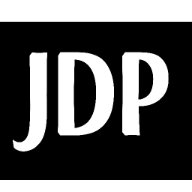
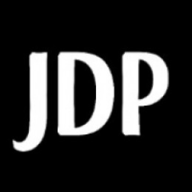
image tweaks and pageage json homepage change

diff --git a/dist/js/index.html b/dist/js/index.html
@@ -1,1 +1,1 @@
-<!DOCTYPE html><html lang="en"><head><link rel="manifest" crossorigin="use-credentials" href="%PUBLIC_URL%/site.webmanifest"><meta charset="utf-8"><meta http-equiv="Cache-control" content="public"><meta name="viewport" content="width=device-width,initial-scale=1"><meta name="theme-color" content="#FFF"><meta name="description" content="JDP Electrical Services offer a complete range of electrical installations and services throughout the Sydney Metropolitan and North Shore Region."><link async="true" rel="icon" href="%PUBLIC_URL%/favicon.ico"><link async="true" rel="apple-touch-icon" sizes="180x180" href="/apple-touch-icon.png"><link async="true" rel="icon" type="image/png" sizes="32x32" href="/favicon-32x32.png"><link async="true" rel="icon" type="image/png" sizes="16x16" href="/favicon-16x16.png"><title>JDP Electrical Services Pty Ltd</title><link href="main.css" rel="stylesheet"></head><body><div id="root"></div><script src="bundle.js"></script></body></html>
+<!DOCTYPE html><html lang="en"><head><meta charset="utf-8"><meta http-equiv="Cache-control" content="public"><meta name="viewport" content="width=device-width,initial-scale=1,shrink-to-fit=no"><meta name="theme-color" content="#FFF"><meta name="msapplication-TileColor" content="#da532c"><meta name="description" content="JDP Electrical Services offer a complete range of electrical installations and services throughout the Sydney Metropolitan and North Shore Region."><link rel="manifest" crossorigin="use-credentials" href="%PUBLIC_URL%/site.webmanifest"><link async="true" rel="icon" href="%PUBLIC_URL%/favicon.ico"><link rel="apple-touch-icon" sizes="180x180" href="/apple-touch-icon.png"><link rel="icon" type="image/png" sizes="32x32" href="/favicon-32x32.png"><link rel="icon" type="image/png" sizes="16x16" href="/favicon-16x16.png"><link rel="mask-icon" href="/safari-pinned-tab.svg" color="#5bbad5"><title>JDP Electrical Services Pty Ltd</title><link href="main.css" rel="stylesheet"></head><body><div id="root"></div><script src="bundle.js"></script></body></html>

diff --git a/public/index.html b/public/index.html
@@ -1,21 +1,22 @@
 <!DOCTYPE html>
 <html lang="en">
   <head>
-    <link rel="manifest" 
-    crossorigin="use-credentials"  
-    href="%PUBLIC_URL%/site.webmanifest" />
     <meta charset="utf-8" />
     <meta http-equiv="Cache-control" content="public">
-    <meta name="viewport" content="width=device-width, initial-scale=1" />
+    <meta name="viewport" content="width=device-width, initial-scale=1, shrink-to-fit=no" />
     <meta name="theme-color" content="#FFF"/>
+    <meta name="msapplication-TileColor" content="#da532c">
     <meta 
     name="description" 
     content="JDP Electrical Services offer a complete range of electrical installations and services throughout the Sydney Metropolitan and North Shore Region.">
+    <link rel="manifest" 
+    crossorigin="use-credentials"  
+    href="%PUBLIC_URL%/site.webmanifest" />
     <link async='true'  rel="icon" href="%PUBLIC_URL%/favicon.ico" />
-    <link async='true'  rel="apple-touch-icon" sizes="180x180" href="/apple-touch-icon.png">
-    <link async='true'  rel="icon" type="image/png" sizes="32x32" href="/favicon-32x32.png">
-    <link  async='true'  rel="icon" type="image/png" sizes="16x16" href="/favicon-16x16.png">
-    <!-- <link rel="manifest" crossorigin="use-credentials" href="site.webmanifest"/> -->
+    <link rel="apple-touch-icon" sizes="180x180" href="/apple-touch-icon.png">
+    <link rel="icon" type="image/png" sizes="32x32" href="/favicon-32x32.png">
+    <link rel="icon" type="image/png" sizes="16x16" href="/favicon-16x16.png">
+    <link rel="mask-icon" href="/safari-pinned-tab.svg" color="#5bbad5">
     <title>JDP Electrical Services Pty Ltd</title>
   </head>
   <body>

diff --git a/dist/js/17.css b/dist/js/17.css
@@ -14,3 +14,8 @@
   padding: 13px 4px 0 2px;
   font-size: 14px;
 }
+@media screen and (max-width: 300px) {
+  .p-Call-us-now-main {
+    font-size: 10px;
+  }
+}

diff --git a/src/components/ContentBlock/RightContentBlock/styling.css b/src/components/ContentBlock/RightContentBlock/styling.css
@@ -14,3 +14,8 @@
   padding: 13px 4px 0 2px;
   font-size: 14px;
 }
+@media screen and (max-width: 300px) {
+  .p-Call-us-now-main {
+    font-size: 10px;
+  }
+}
